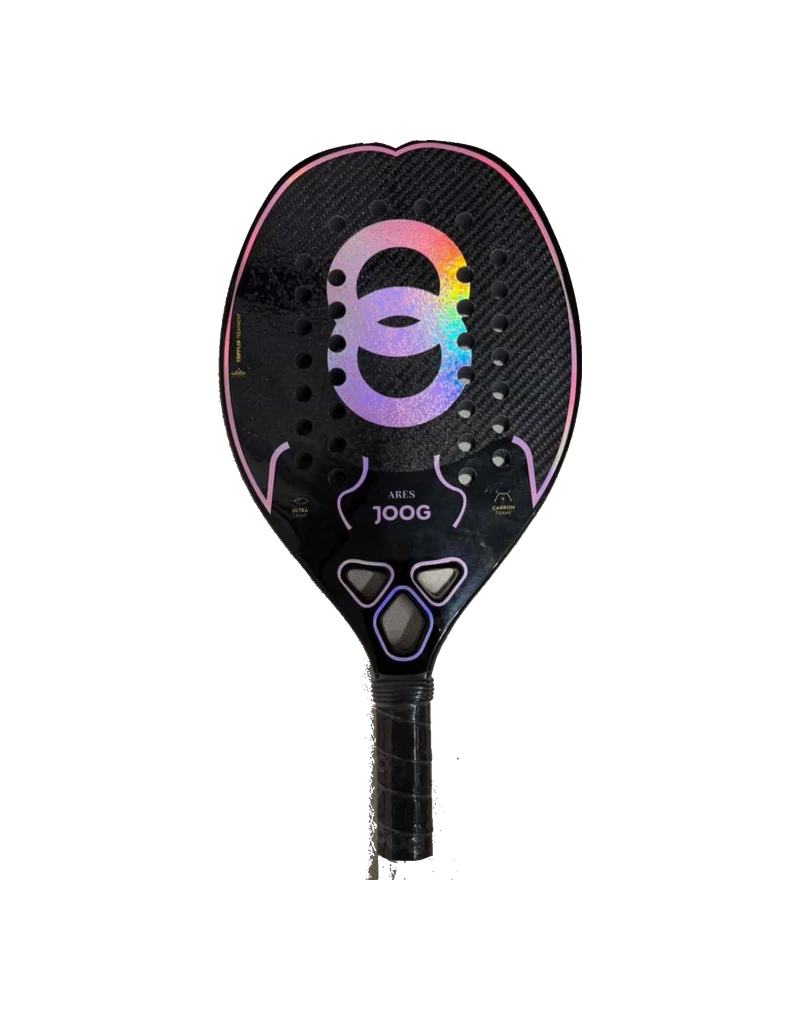
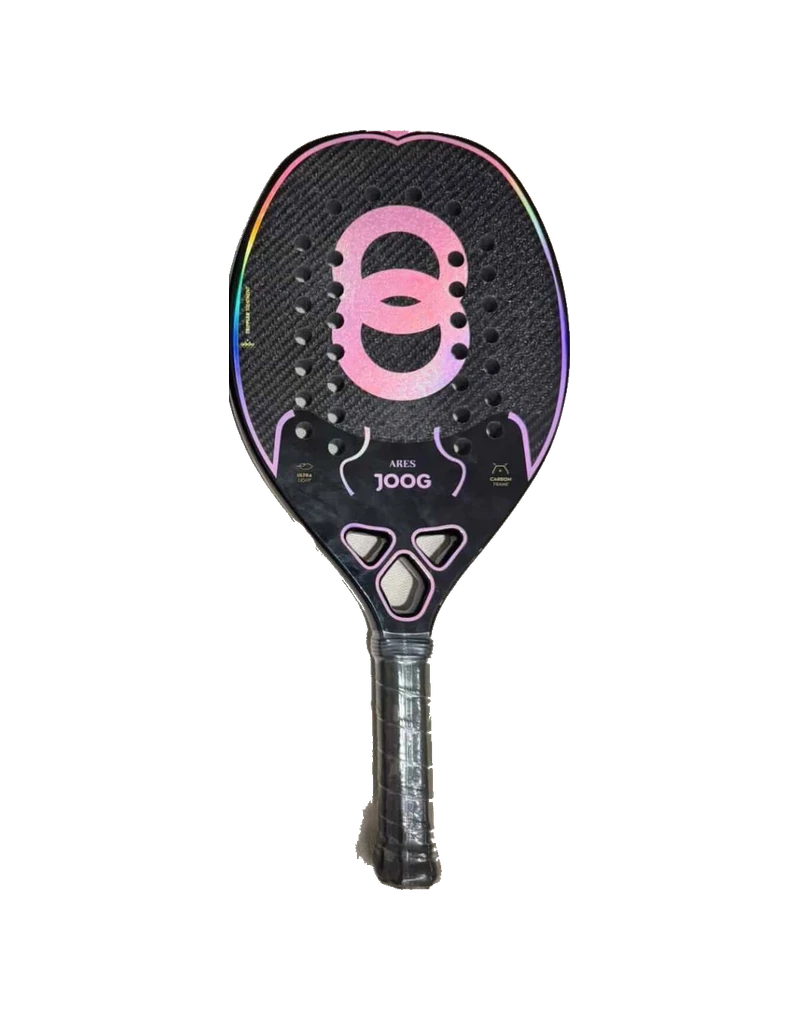
fix(raquetes): reprocessa imagens Joog + linha dupla nos specs + grid desigual v0.4.202
3 bugs reportados pelo Rodrigo, verificados no DOM real antes de tocar codigo:

- joog-dynamic-2026.webp e joog-ares-2026.webp: fundo original (madeira/tecido)
  deixava residuo speckled e um corte serrilhado no cabo apos a remocao de
  fundo. Reprocessadas a partir da ficha original (soraquetes.com.br) com
  flood-fill + limpeza por componente conexo — Ares agora mostra o cabo
  completo ate a ponteira (usando uma foto da galeria que nao tinha corte)

- SpecsGrid.tsx: last:border-0 dependia da row ser :last-child de verdade,
  mas o MegaSpinLink (que renderiza incondicionalmente em toda pagina de
  raquete, nao so nas com superficie ajustavel) quebra isso como irmao
  seguinte — a ultima row ganhava border-b indevido, dobrando com o
  border-t do link. Trocado por indice explicito (i === rows.length - 1)

- app/raquetes/[slug]/page.tsx: grid Especificacoes/Tecnologias e
  acabamentos vira 1.3fr/1fr com items-start (Delta 27) — a coluna de
  tecnologias parava de esticar ate a altura da de specs quando tinha
  poucas tags

Changed region(s): [[0.25, 0.1216, 0.75, 0.8814]]

diff --git a/components/SpecsGrid.tsx b/components/SpecsGrid.tsx
@@ -202,11 +202,16 @@ export default function SpecsGrid({ racket, variant = 'page', hideTechRows = fal
 
   return (
     <>
-      {rows.map(({ label, value, tipo }) => {
+      {rows.map(({ label, value, tipo }, i) => {
         const adj = ADJUSTABLE[label]
         const isErgonomia = tipo === 'ergonomia'
+        // Índice explícito em vez de last:border-0 — este variant é renderizado dentro de
+        // um card que às vezes tem o MegaSpinLink como irmão logo depois (fora deste
+        // componente), o que faz a última row deixar de ser :last-child de verdade e o
+        // border-b indevidamente aparecer, dobrando com o border-t do link.
+        const isLastRow = i === rows.length - 1
         return (
-          <div key={label} className="flex justify-between items-center py-2 border-b border-aqua/10 last:border-0">
+          <div key={label} className={`flex justify-between items-center py-2 ${isLastRow ? 'border-0' : 'border-b border-aqua/10'}`}>
             <span className="text-tinta/60 text-sm">{label}</span>
             <div className="flex items-center gap-2 ml-4">
               <span className="text-tinta text-sm font-medium text-right">{value}</span>

diff --git a/app/raquetes/[slug]/page.tsx b/app/raquetes/[slug]/page.tsx
@@ -270,8 +270,10 @@ export default async function RaquetaPage({ params }: { params: Promise<{ slug: 
                 </div>
               )}
 
-              {/* Specs + Tecnologias — 2 colunas no desktop */}
-              <div className="flex flex-col gap-5 lg:grid lg:grid-cols-2 lg:gap-3.5">
+              {/* Specs + Tecnologias — 2 colunas no desktop (Delta 27: colunas desiguais
+                  1.3fr/1fr + items-start, pra Tecnologias não esticar até a altura de
+                  Especificações quando tem poucas tags) */}
+              <div className="flex flex-col gap-5 lg:grid lg:grid-cols-[1.3fr_1fr] lg:items-start lg:gap-3.5">
                 <div className="bg-white rounded-2xl p-5 shadow-card border border-[rgba(14,58,64,0.06)]">
                   <p className="text-tinta font-semibold text-sm mb-3">Especificações</p>
                   <SpecsGrid racket={racket} hideTechRows />
